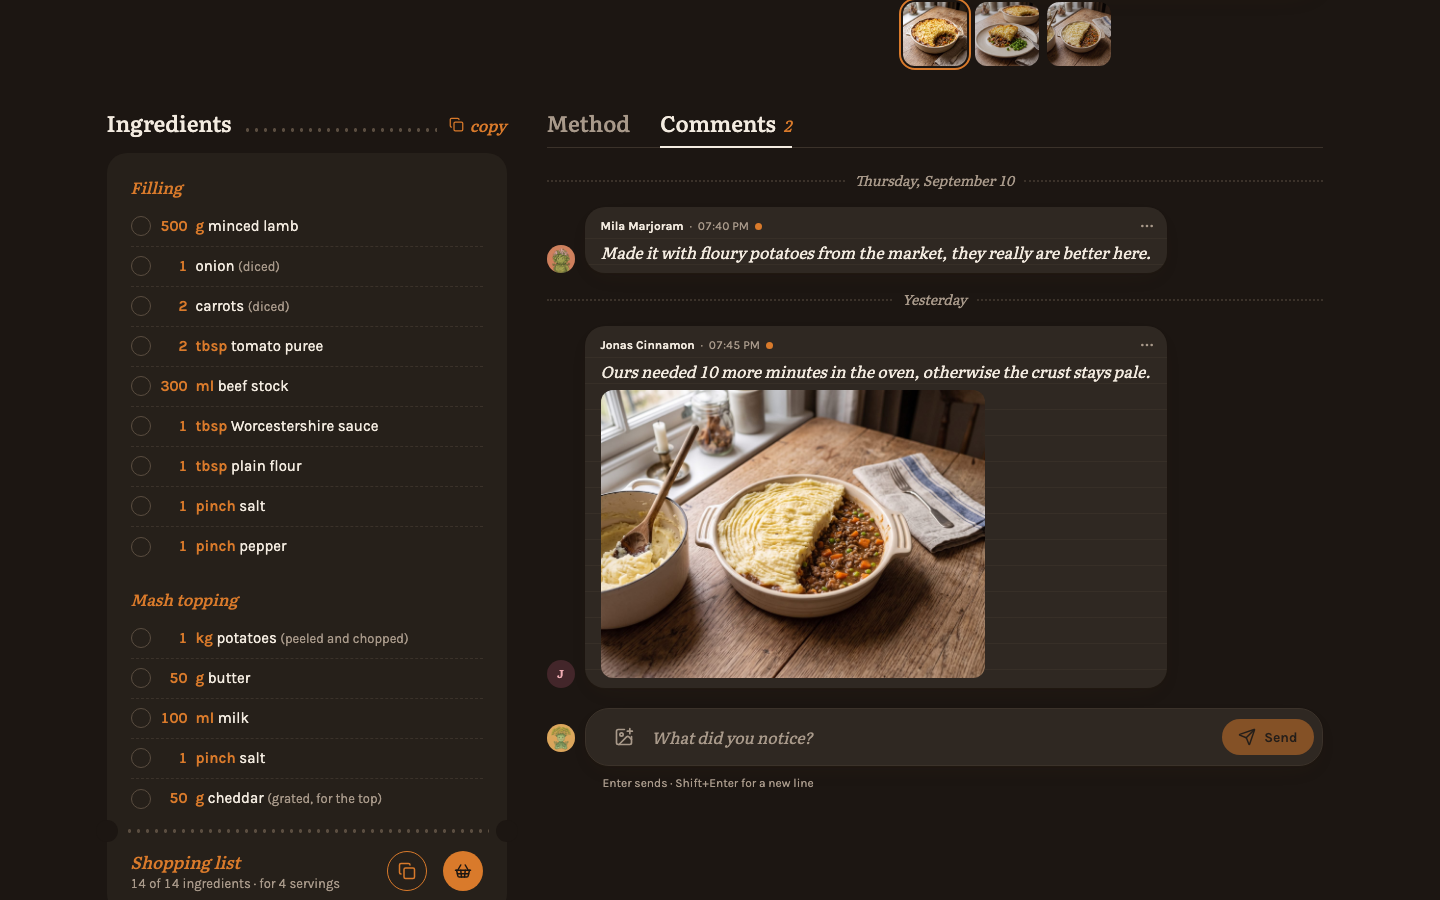
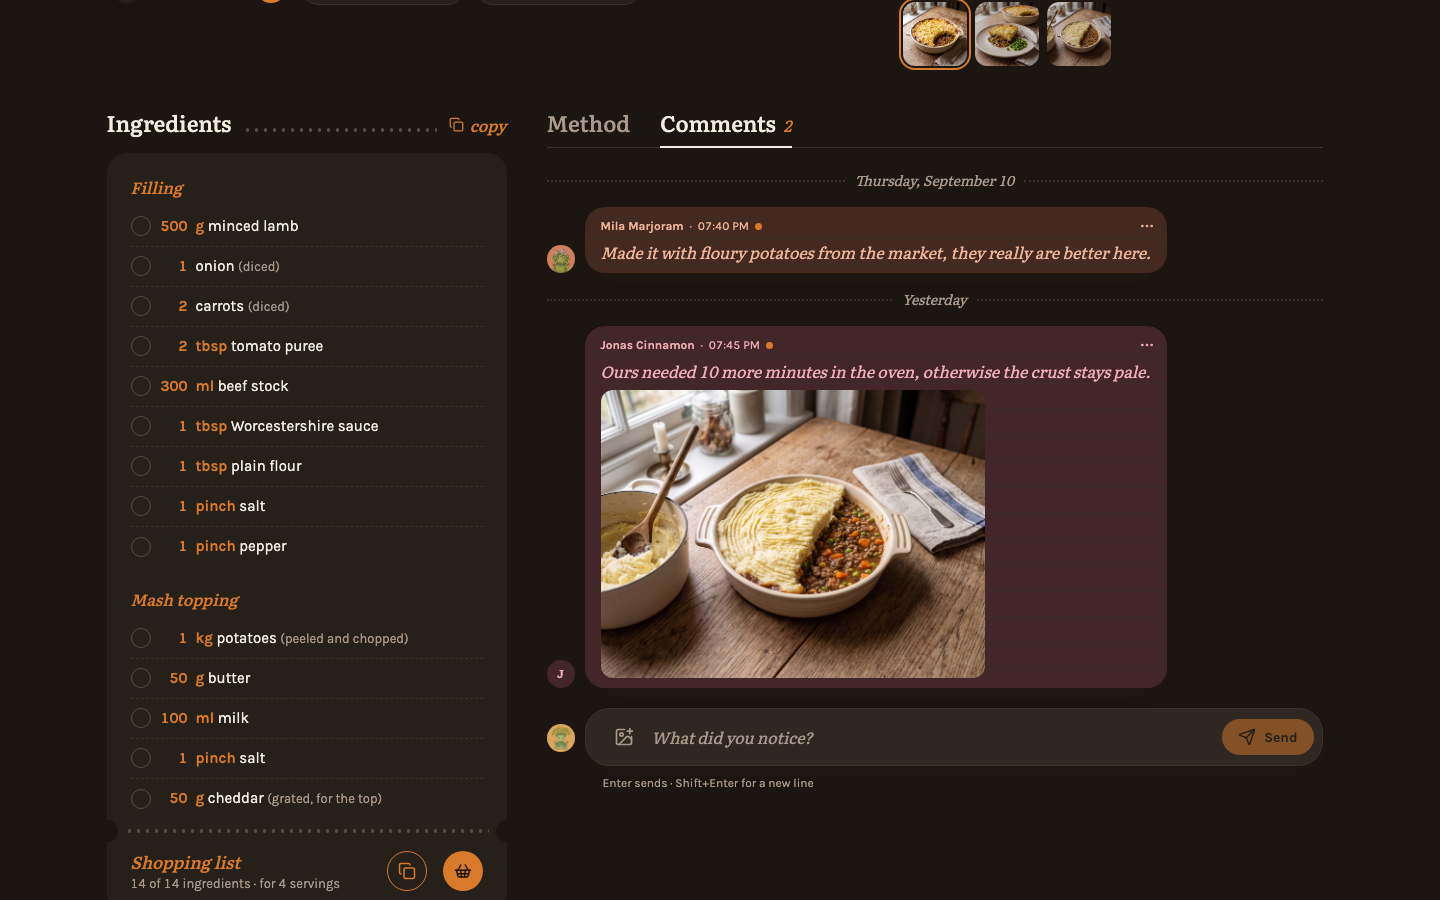
feat(comments): set every comment on its writer's paper

Changed region(s): [[0.4062, 0.3733, 0.8125, 0.4356], [0.4062, 0.2489, 0.7812, 0.3111]]

diff --git a/frontend/e2e/kitchen-diary.test.ts b/frontend/e2e/kitchen-diary.test.ts
@@ -2,6 +2,7 @@ import { expect, test, type Locator, type Page } from '@playwright/test';
 import {
 	addDiaryPhoto,
 	createRecipe,
+	addDiaryEntry,
 	createUser,
 	loadFixture,
 	login,
@@ -974,4 +975,33 @@ test("the composer stays neutral when focused, the writer's mark beside it", asy
 	// Sending stays the action color.
 	await field.fill('Less salt next time');
 	await expect(diary(page).getByRole('button', { name: 'Send' })).toHaveClass(/bg-primary/);
+});
+
+test("every comment sits on its writer's paper", async ({ page }) => {
+	const token = uniqueToken();
+	const mara = `mara${token}`.slice(0, 20);
+	await login(page);
+	const admin = (await (await page.request.get('/api/v1/auth/me')).json()) as { color: string };
+	const color = admin.color === 'plum' ? 'teal' : 'plum';
+	await createUser(page, { username: mara, role: 'user', color });
+	const recipe = await createRecipe(page, { ...loadFixture(1), title: `Papers ${token}` });
+	await addDiaryEntry(page, recipe.id, 'From the author');
+	await switchTo(page, mara);
+	await addDiaryEntry(page, recipe.id, 'From a member');
+	await page.goto(`/recipes/${recipe.slug}`);
+	await diaryTab(page).click();
+	const paper = (body: string) =>
+		diary(page).getByRole('listitem').filter({ hasText: body }).locator('.diary-paper');
+	const onPaper = (body: string, tone: string) =>
+		paper(body).evaluate((el, tone) => {
+			const probe = document.createElement('span');
+			probe.style.backgroundColor = `var(--color-user-${tone})`;
+			document.body.append(probe);
+			const want = getComputedStyle(probe).backgroundColor;
+			probe.remove();
+			return getComputedStyle(el).backgroundColor === want;
+		}, tone);
+	// The viewer's own entry and somebody else's, each in its writer's color.
+	await expect.poll(() => onPaper('From a member', color)).toBe(true);
+	await expect.poll(() => onPaper('From the author', admin.color)).toBe(true);
 });

diff --git a/frontend/src/lib/components/recipe/DiaryEntry.svelte b/frontend/src/lib/components/recipe/DiaryEntry.svelte
@@ -37,8 +37,10 @@
 	} = $props();
 
 	const mine = $derived(entry.canEdit);
+	// Every entry on its writer's paper, like notes from different people
+	// in the kitchen; a former member's stays plain.
 	const paper = $derived(
-		mine && entry.author ? userColorClasses(entry.author.color) : 'bg-surface-elevated'
+		entry.author ? userColorClasses(entry.author.color) : 'bg-surface-elevated'
 	);
 
 	// Editing swaps this bubble for the composer, prefilled, in place.
@@ -144,7 +146,7 @@
 				: ''}"
 		>
 			<div
-				class="flex flex-wrap items-center gap-x-1.5 text-micro leading-[26px] {mine
+				class="flex flex-wrap items-center gap-x-1.5 text-micro leading-[26px] {entry.author
 					? ''
 					: 'text-text-muted'}"
 			>

diff --git a/frontend/e2e/avatars.test.ts b/frontend/e2e/avatars.test.ts
@@ -239,7 +239,7 @@ test('a mark in a line of text grows with the text', async ({ page }) => {
 	await page.goto(`/recipes/${recipe.slug}`);
 	// The colophon's "Added by" face: an `xs` mark beside the name.
 	const mark = page
-		.locator('button')
+		.locator('footer button')
 		.filter({ hasText: 'Admin' })
 		.locator('span[aria-hidden="true"]')
 		.first();
